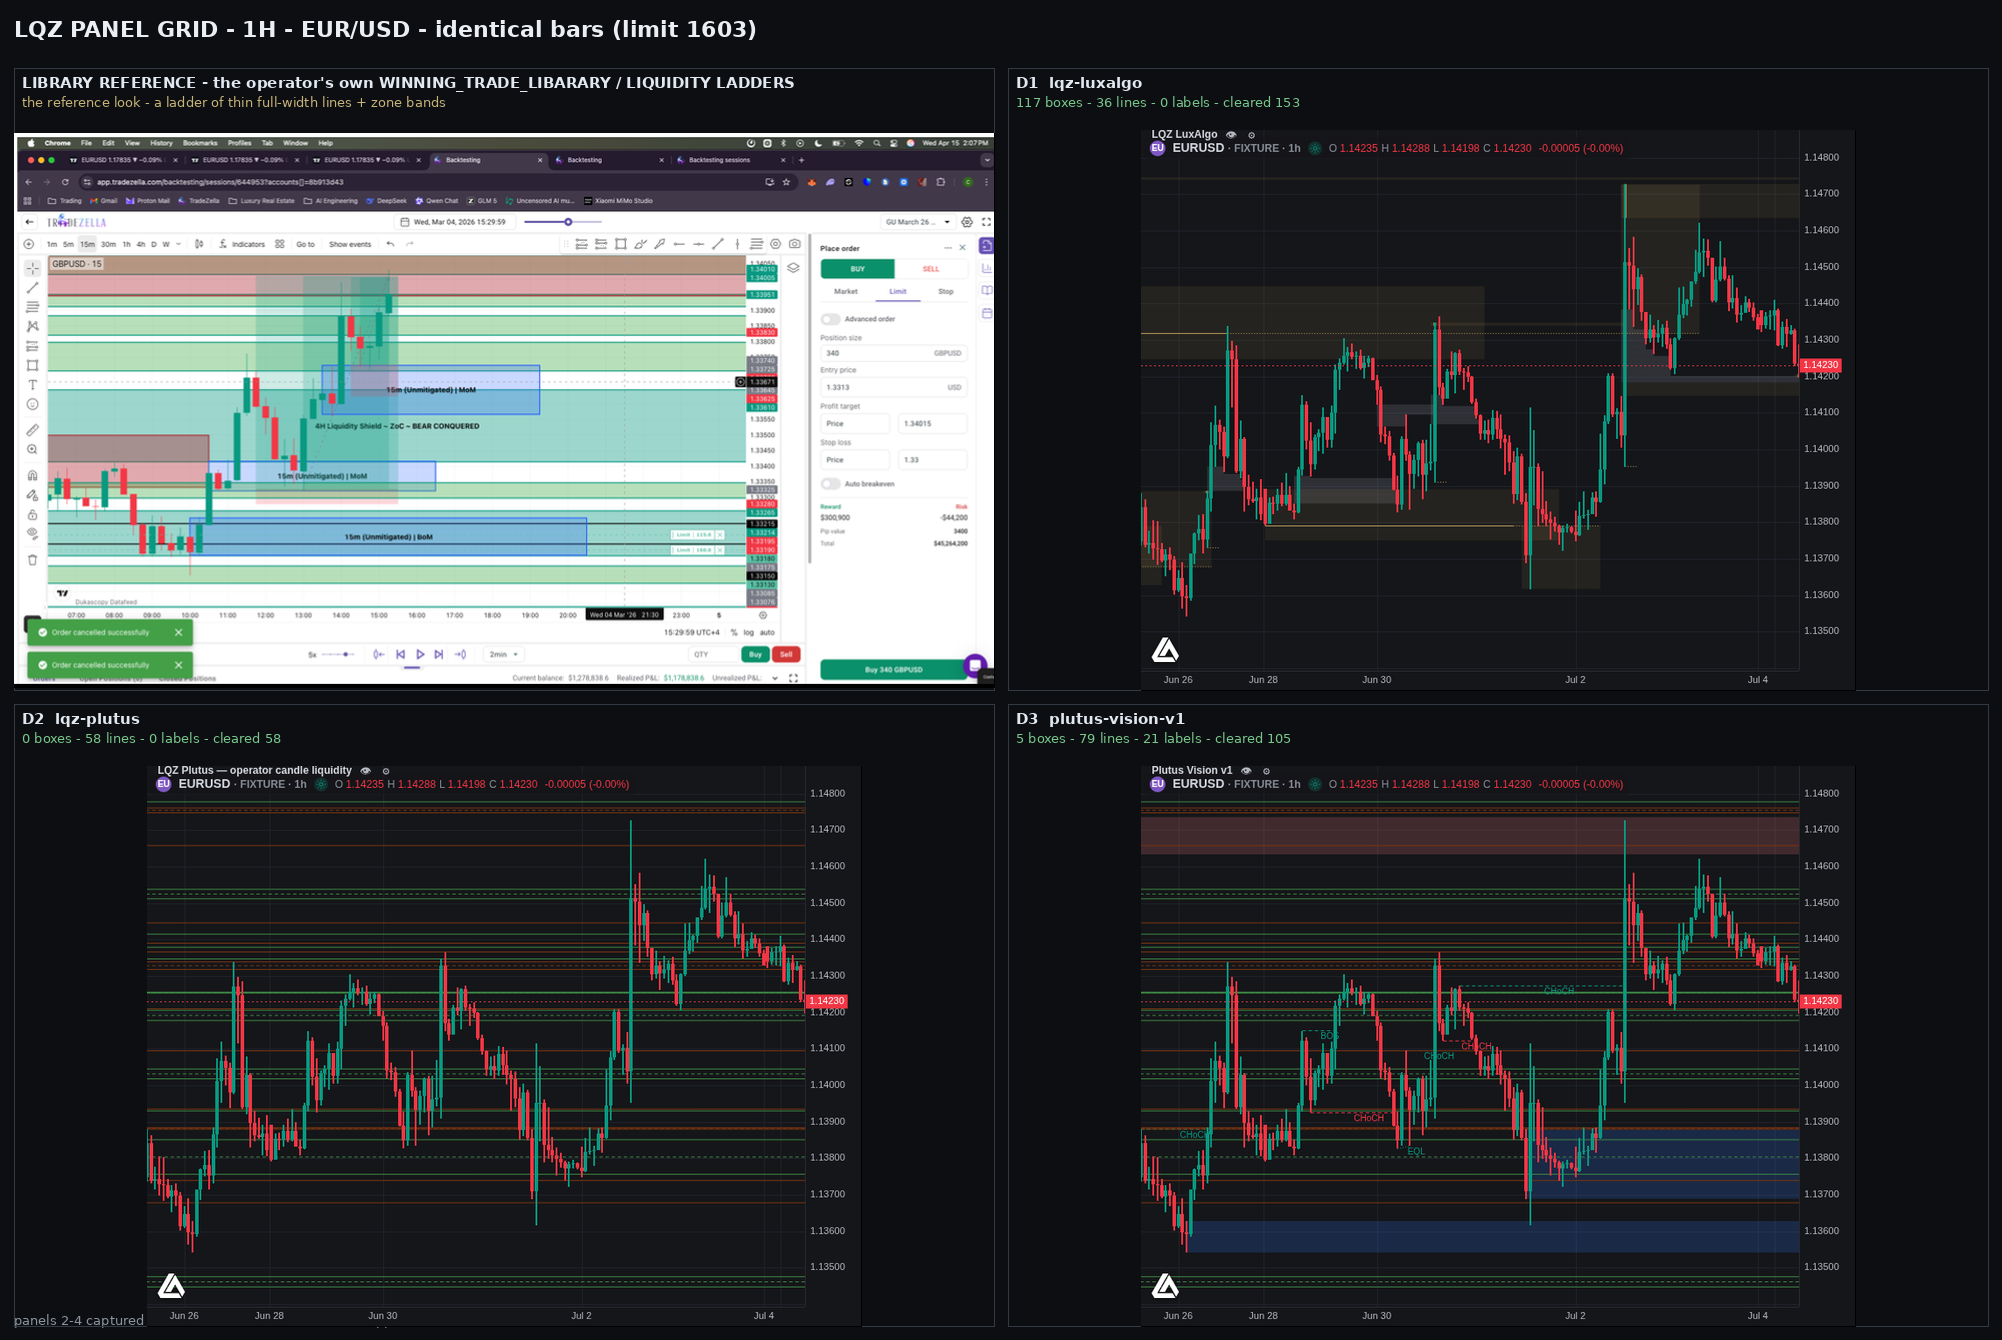
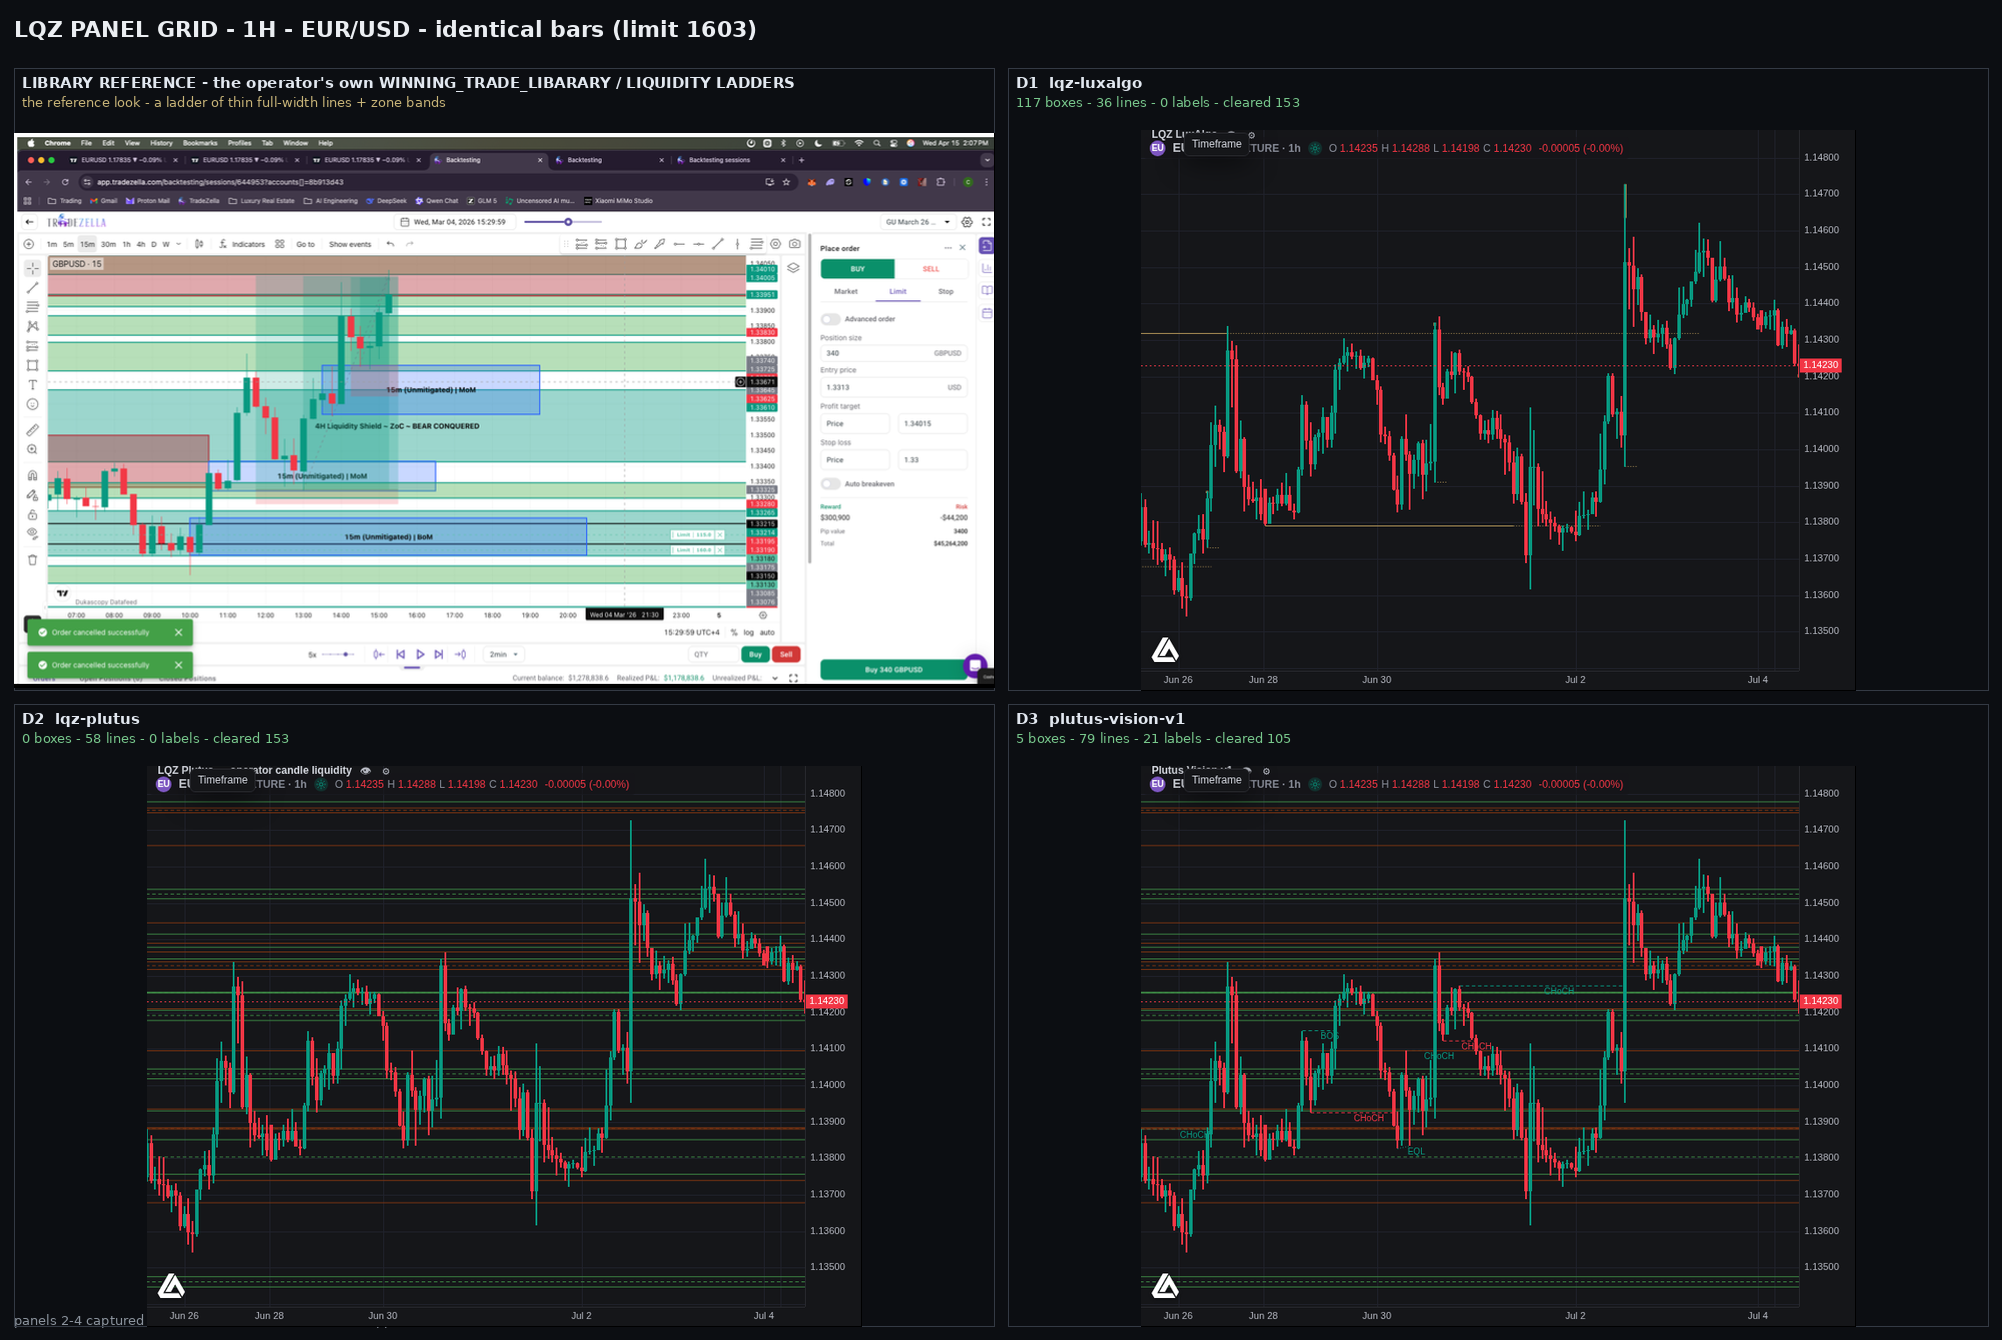
fix(lqz): D2's title RESTORED — the defect a second operator found, and the manual's four gaps closed
THE DEFECT (found by SecondOperator2, root-caused to the line): scripts/lqz_assemble.py:49
defaults --title 'LQZ', so regenerating D2 with --candles and no --title SILENTLY DROPPED its
descriptive title. Consequences it traced, all real: scripts/lqz-panel.mjs asserts
expect='LQZ Plutus' so THE GRID COMMAND ABORTED at the second panel; scripts/lqz_ship.test.ts:103
expects the long title so THE SHIP TEST WAS BROKEN; and the ledger's H1 table was stale.

THE FIX: regenerate with --title 'LQZ Plutus — operator candle liquidity'. VERIFIED END TO END:
  bun scripts/lqz-panel.mjs 1H
    D1 'LQZ LuxAlgo' in 1 run · D2 'LQZ Plutus — operator candle liquidity' in 2 runs ·
    D3 'Plutus Vision v1' in 6 runs · panels distinct · PANEL_GRID_OK
The NA guard is preserved (1 occurrence) and SERVED_PINE_OK holds.

THE MANUAL'S FOUR GAPS, CLOSED (its verdict was INSUFFICIENT):
  2. THE EXPECTED-TITLE TABLE — added, with the regenerate-never-update-the-consumer rule
  4. THE REPO-WRITE HAZARD — lqz-panel.mjs overwrites a RECEIPT-cited artifact; now flagged
  5. THE TWO INSTRUMENTS — the station (your limit) vs the IDE's lastVision (400 bars) give
     different counts and are NOT comparable; now labelled with both sets of numbers
  6. THE SECOND WINDOW — 'PLUTUS-CHART' on :3 shows a DIFFERENT study; now warned

ITS GAP 3 (the capture remedy contradicted by its own ledger) is REAL and recorded: the reload
[…]

diff --git a/OPERATING_MANUAL.md b/OPERATING_MANUAL.md
@@ -45,6 +45,20 @@ curl -s -m 90 -X POST http://127.0.0.1:9741/run \
 **ASSERT THE TITLE.** It is the compiled script's OWN identity — the only deterministic
 per-panel check in the system.
 
+**THE EXPECTED TITLES — the table this manual lacked** (a zero-context operator following a stale
+string declared a good compile FAILED; that happened):
+| deliverable | the title its `indicator()` declares |
+|---|---|
+| `lqz-luxalgo.pine` | **`LQZ LuxAlgo`** |
+| `lqz-plutus.pine` | **`LQZ Plutus — operator candle liquidity`** |
+| `plutus-vision-v1.pine` | **`Plutus Vision v1`** |
+| `plutus-vision-v0.pine` | (the parity reference — never edited) |
+
+**IF A TITLE MISMATCHES, REGENERATE — do not update the consumer.** `scripts/lqz_assemble.py`
+defaults `--title "LQZ"`; regenerating without the flag silently drops the descriptive title,
+which then breaks `scripts/lqz-panel.mjs` (its `expect`) and `scripts/lqz_ship.test.ts:103` at
+once. **Measured, this session:** exactly that happened, and a second operator found it.
+
 **THE REFUSALS, so a reader knows what normal looks like:**
 | input | response |
 |---|---|
@@ -59,11 +73,18 @@ per-panel check in the system.
 ### 1.3 THE CAPTURE — through the IDE
 
 ```bash
-# the grid (four panels from the ledger)
+# THE COMPOSED GRIDS (from the ledger) — writes reports/panel-grid-IDE-<TF>-2026-W29.png
 python3 scripts/lqz_panel_ide.py
+
+# THE OLDER GRID (live X11/CDP) — NOTE: it writes reports/panel-grid-<TF>.png IN THE REPO,
+# overwriting an artifact the RECEIPT cites by sha. Run it only when you intend to replace it.
+bun scripts/lqz-panel.mjs 1H
 
 # a single frame, the X11 path
 DISPLAY=:3 xdotool search --name "Pine IDE" | head -1     # resolve the window id (CHANGES on relaunch)
+# ⚠ TWO CHART WINDOWS EXIST ON :3. "Pine IDE" -> 14680067 is THIS project's IDE.
+#   A second window, "PLUTUS-CHART" (4194307), shows a DIFFERENT study (the trade desk).
+#   A hand-capture can grab the wrong one — always resolve by NAME, never by guessing.
 DISPLAY=:3 import -window <ID> -silent /tmp/look.png
 sha256sum /tmp/look.png | cut -c1-16
 # THEN OPEN IT. A capture nobody opened is not evidence.
@@ -154,7 +175,15 @@ takes the IDE window down and back up (~20 s).
 spaced, plus large translucent zone bands and (on D3) the SMC structure vocabulary — `CHoCH`,
 `BOS`, `EQH`, `EQL`, `BC`. **Candles must stay readable.**
 
-**MEASURED LADDERS (the station, the authoritative instrument):**
+**TWO INSTRUMENTS PRODUCE DIFFERENT COUNTS — know which one you are reading.**
+| instrument | window | what it reports |
+|---|---|---|
+| **the STATION** (`POST :9741/run`) | the `limit` you pass (1603 is the full fixture) | D1 `481 boxes / 182 lines`, D2 `112 lines`, D3 `205 lines / 97 labels` |
+| **the IDE's `lastVision`** | 400 bars by default | D1 `117 / 36`, D2 `58`, D3 `79 / 21` |
+**They are not comparable.** A count that "does not match" is usually a different window, not a
+failure. Always state the instrument and the bar count beside the number.
+
+**MEASURED LADDERS (the station, the authoritative instrument, 325/400 bars as the IDE uses):**
 | deliverable | 15m | 1H |
 |---|---|---|
 | D1 | 2 emitter lines, 0 coloured | 4, 0 |
